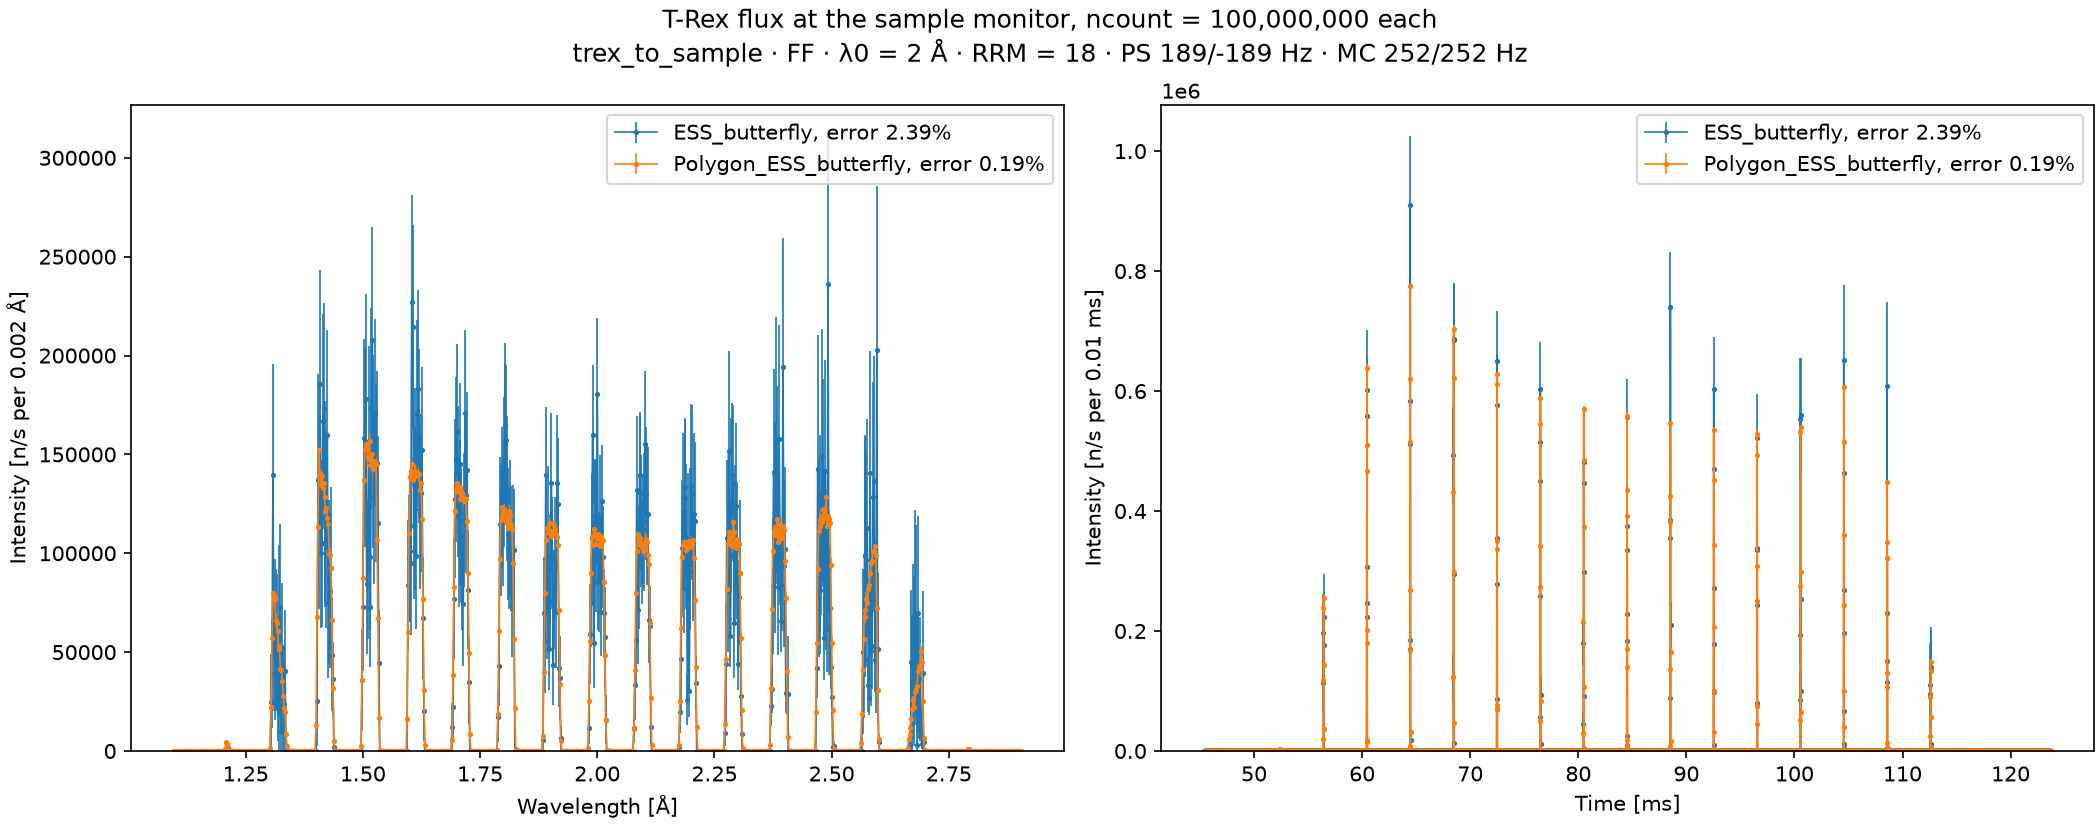
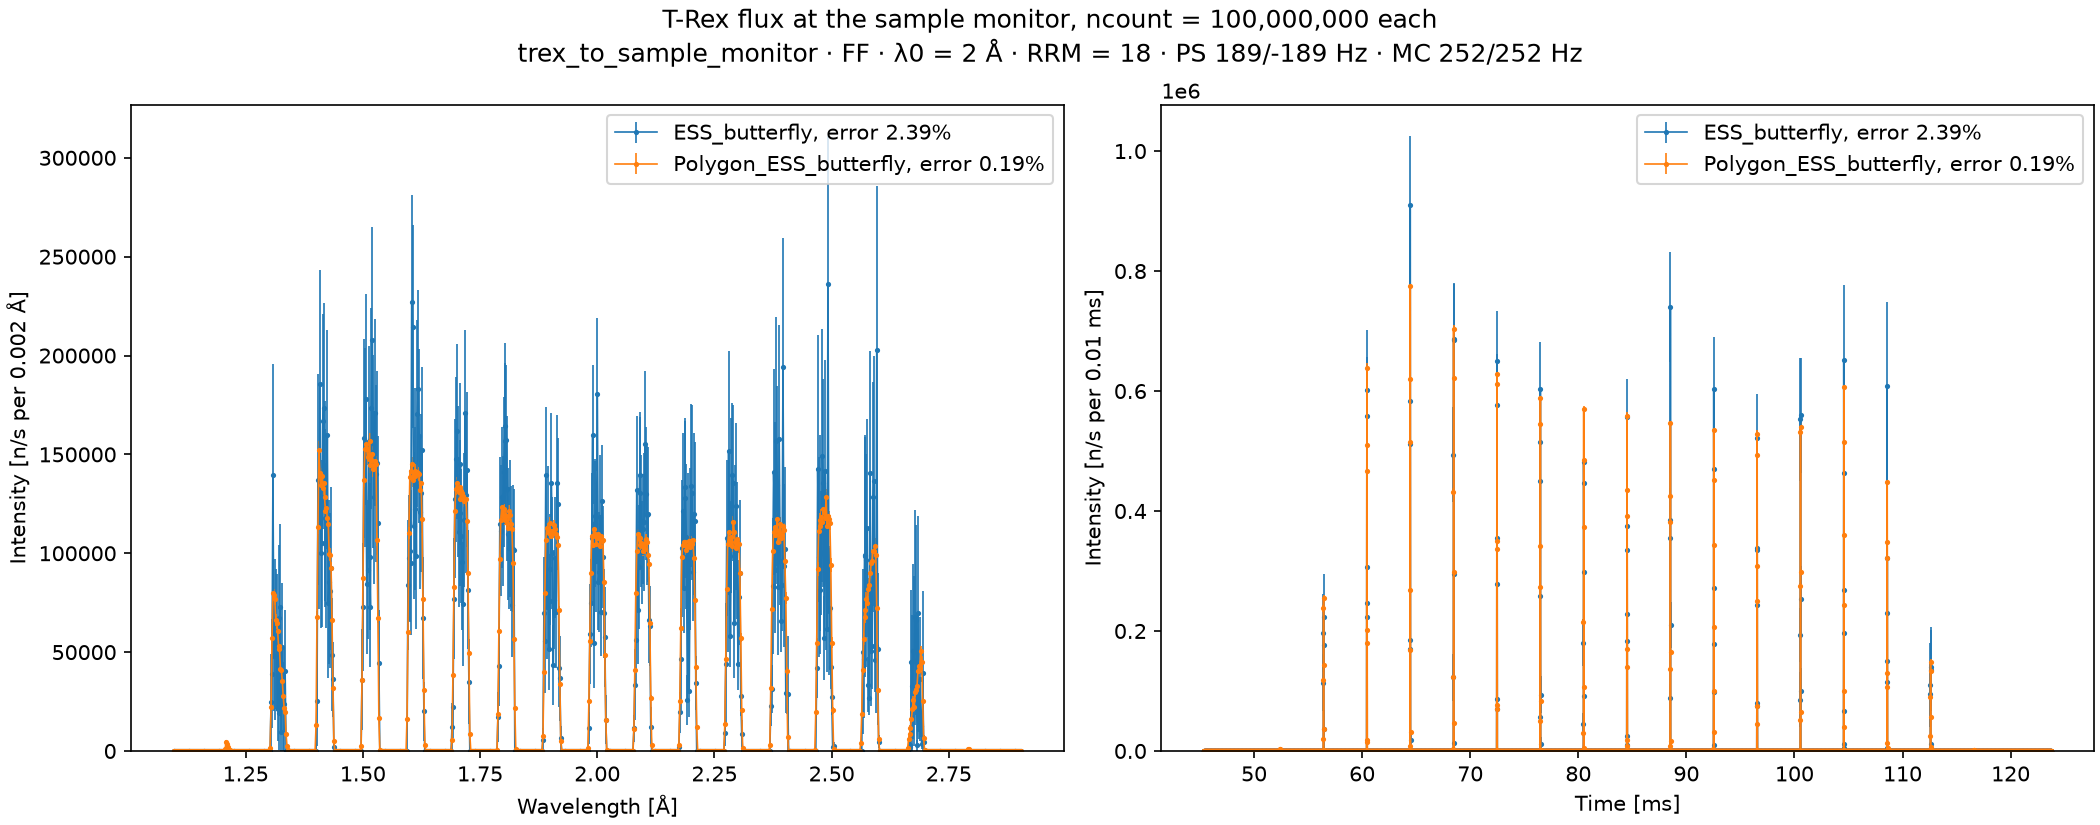
Make the figures of the docs again, and bring the pages up to date with the code
The masked source figures have the intensity label of plot_profile, and their table the times
of this run. The Source page shows trex_source_lambda0_2A.png, the name the code writes. The
numbers of the Incident energy page are those main prints, and the figure of merit of the
Masked source page is no longer that of one run. The code layout, the core concepts, the home
page and the diagnostics package name the readers of the maps, compare, drawing and cli.

Changed region(s): [[0.2476, 0.0303, 0.7429, 0.0909]]

diff --git a/src/mcdgs/diagnostics/__init__.py b/src/mcdgs/diagnostics/__init__.py
@@ -1,5 +1,7 @@
 """Setups that study one part of an instrument, such as a section of it with extra monitors.
 
-They build on the instruments and on mcstas/, and nothing else in mcdgs imports them. One
-package per instrument, as in instruments/.
+They build on the instruments, mcstas/, tof/ and reduction/, and nothing else in mcdgs imports
+them. One package per instrument, as in instruments/. The modules share :mod:`.compare`, which
+puts two time and wavelength maps of a monitor side by side and draws them, :mod:`.drawing`,
+which describes and draws any instrument, and :mod:`.cli`, their command line and files.
 """

diff --git a/docs/code-layout.md b/docs/code-layout.md
@@ -12,10 +12,10 @@ Dependencies point inwards, so an instrument never depends on how it is simulate
 | `core` | `Instrument`, the components, parameters and geometry. It imports nothing else from `mcdgs`. |
 | `instruments`, `samples` | The instruments and ready-made crystals, built on `core`. |
 | `mcstas` | An adapter that works with any instrument: builds it, runs it, reads the output. |
-| `tof` | An adapter that works with any instrument: builds its chopper cascade as a tof model, gives its disks as scippneutron disk choppers, and draws its chopper acceptance diagram. |
+| `tof` | An adapter that works with any instrument: builds its chopper cascade as a tof model, gives its disks as scippneutron disk choppers, draws its chopper acceptance and time-distance diagrams, and counts the neutrons of a run on the bins of a McStas monitor. |
 | `io` | An adapter that saves any instrument to a YAML parameters file and loads it back. It imports `instruments` only to know every instrument class a file may name. |
-| `reduction` | Data reduction with the kernels of scippneutron: the incident energy of a straight flight, the energy and momentum transfer of each neutron, the sub-pulse it belongs to, the solid angle of the pixels and bin edges. It imports nothing else from `mcdgs`. |
-| `diagnostics` | Setups that study one part of an instrument, such as T-Rex up to guide 4, and what reads their McStas and tof results. One module per setup, in a package per instrument, such as `trex.source`, built on all the other packages; nothing else imports it. |
+| `reduction` | Data reduction with the kernels of scippneutron: the incident energy of a straight flight, the patches of a time and wavelength map, the energy and momentum transfer of each neutron, the sub-pulse it belongs to, the solid angle of the pixels and bin edges. It imports nothing else from `mcdgs`. |
+| `diagnostics` | Setups that study one part of an instrument, such as T-Rex up to guide 4, and what reads their McStas and tof results. One module per setup, in a package per instrument, such as `trex.source`, built on all the other packages; nothing else imports it. The modules share `compare`, which puts two time and wavelength maps of a monitor side by side and draws them, `drawing`, which describes and draws any instrument, and `cli`, their command line and the files they write. |
 
 Each box is a package, with the main things it offers, and each dashed arrow points to a package it
 imports from:
@@ -41,11 +41,13 @@ classDiagram
         <<package>>
         build_mcstas()
         Simulation
+        read_mcstas_map()
         read_pixels()
     }
     class tof {
         <<package>>
         build_tof()
+        read_tof_map()
         acceptance_diagram()
         time_distance_diagram()
     }
@@ -61,6 +63,7 @@ classDiagram
     }
     class diagnostics {
         <<package>>
+        compare
         trex.overview to trex.elastic_scan
     }
     instruments ..> core

diff --git a/docs/instruments/trex/incident-energy.md b/docs/instruments/trex/incident-energy.md
@@ -51,7 +51,7 @@ blue, the beamstop monitor in orange, McStas as solid lines and tof as dashed on
 sub-pulse reaches the beamstop monitor 1.1 to 2.2 ms after the pre-sample monitor, the slower
 ones later.
 
-In McStas, the beamstop monitor counts 2.277e7 n/s, 11 % less than the 2.546e7 n/s at the
+In McStas, the beamstop monitor counts 1.948e7 n/s, 23 % less than the 2.546e7 n/s at the
 pre-sample monitor: the beam spreads over the 3.3 m, and part of it misses the 0.1 m monitor.
 tof has no divergence and counts all of it. This loss hardly changes Ei: with the plain source, a
 1 m × 1 m beamstop monitor, which catches the whole beam, moved Ei by at most 0.3 %, within the
@@ -161,15 +161,15 @@ values, in McStas:
 
 | Sub-pulse | At the pre-sample monitor | Between the monitors | λi | Ei between the monitors | Ei, pre-sample monitor alone | Ei from the mean λ |
 | --------- | ------------------------- | -------------------- | -- | ----------------------- | ---------------------------- | ------------------ |
-| 0 | 56.327 ms | 1.0983 ms | 1.317 Å | 47.158 meV (−0.16 %) | 46.824 meV (−0.87 %) | 47.234 meV |
-| 7 | 84.358 ms | 1.6678 ms | 2.000 Å | 20.452 meV (−0.11 %) | 20.451 meV (−0.11 %) | 20.474 meV |
-| 14 | 112.390 ms | 2.2373 ms | 2.683 Å | 11.365 meV (−0.10 %) | 11.404 meV (+0.24 %) | 11.377 meV |
+| 0 | 56.327 ms | 1.0983 ms | 1.317 Å | 47.159 meV (−0.16 %) | 46.824 meV (−0.87 %) | 47.234 meV |
+| 7 | 84.358 ms | 1.6677 ms | 2.000 Å | 20.454 meV (−0.10 %) | 20.451 meV (−0.11 %) | 20.474 meV |
+| 14 | 112.390 ms | 2.2375 ms | 2.683 Å | 11.363 meV (−0.12 %) | 11.404 meV (+0.24 %) | 11.377 meV |
 
 Over all sub-pulses, the difference from the reference is:
 
 | Method | McStas | tof |
 | ------ | ------ | --- |
-| Between the monitors | −0.16 to +0.10 % | −0.07 to +0.08 % |
+| Between the monitors | −0.16 to +0.11 % | −0.07 to +0.08 % |
 | Pre-sample monitor alone | −0.87 to +0.24 % | −0.41 to +0.15 % |
 
 Between the monitors, both models agree with the reference to about 0.1 %, and with each other:
@@ -192,7 +192,7 @@ source:
 
 | Flight | L | t, for sub-pulse 7 | δEi / Ei for δt = 10 µs |
 | ------ | - | ------------------ | ----------------------- |
-| Between the monitors | 3.299 m | 1.667 ms | 1.2 % |
+| Between the monitors | 3.299 m | 1.668 ms | 1.2 % |
 | From the source to the pre-sample monitor | 163.499 m | 82.66 ms | 0.02 % |
 
 A sub-pulse is only about 0.02 to 0.03 ms wide, one or two bins of 0.05 ms. Its mean time is a

diff --git a/docs/index.md b/docs/index.md
@@ -30,7 +30,7 @@ print(trex)  # every parameter and component, with its position in the lab frame
 | [Simulation with McStas](how-to/run-a-simulation.md) | Single runs, parameter scans and split runs at the sample position. |
 | [Simulation with tof](how-to/simulate-the-choppers-with-tof.md) | The source, the choppers and every monitor, with the choppers timed as in McStas. |
 | [Chopper acceptance](instruments/trex/choppers.md#acceptance-diagram) | The acceptance diagram of the choppers, exact and without neutrons, with scippneutron. |
-| Reading the output | Monitors and detector pixels from McStas NeXus files; the neutrons at each tof detector. |
+| Reading the output | Monitors and detector pixels from McStas NeXus files; the neutrons at each tof detector; the time and wavelength map of a monitor from both, on the same bins, to compare them. |
 | [Parameters files](reference/io.md) | Save an instrument to a YAML file and load it back. A file need only hold what differs from the instrument the code makes. |
 | [Reduction](reference/reduction.md) | The incident energy of each sub-pulse from two monitors, and the energy and momentum transfer of each neutron, per incident neutron and per steradian: the [elastic plane](instruments/trex/elastic-plane.md) of a crystal. S(Q,E) is not written yet. |
 
@@ -43,7 +43,8 @@ print(trex)  # every parameter and component, with its position in the lab frame
   [source](instruments/trex/source.md), the [extraction guides](instruments/trex/extraction.md),
   the [bender](instruments/trex/bender-scan.md), the
   [beam monitor](instruments/trex/beam-monitor.md), the [choppers](instruments/trex/choppers.md),
-  the [neutrons on the sample](instruments/trex/neutrons-on-sample.md), the
+  the [time-distance diagram](instruments/trex/time-distance.md), the
+  [neutrons on the sample](instruments/trex/neutrons-on-sample.md), the
   [masked source](instruments/trex/masked-source.md), the
   [incident energy](instruments/trex/incident-energy.md), and the
   [elastic plane](instruments/trex/elastic-plane.md) and

diff --git a/docs/instruments/trex/masked-source.md b/docs/instruments/trex/masked-source.md
@@ -14,7 +14,7 @@ Both give the same intensity, but the masked source's error is ten times smaller
 `Polygon_ESS_butterfly` is a McStas component that builds on `ESS_butterfly`. It is the same
 moderator, with the same parameters, plus a description of the chopper train.
 
-A neutron leaves the moderator at a time t with a speed v. It reaches a disk L metres away at
+A neutron leaves the moderator at a time t with a speed v. It reaches a disk L meters away at
 t + L/v, and passes if the disk is open then. Before the run, the component computes, for every
 disk, which (1/v, t) pairs pass it, and keeps the region all the disks pass: a union of convex
 polygons. Nothing is binned, so the region is exact.
@@ -84,8 +84,8 @@ monitor has finer bins than that of T-Rex, to show the shape of each sub-pulse:
 - **A twelfth of the error.** From the same 1e8 rays, the plain source has an error of 2.4 % and
   the masked source 0.19 %. The plain source would need about 1.6e10 rays to do as well.
 - **No dearer per ray.** Both runs take about as long, 12 to 15 s here, which varies from run to
-  run. The figure of merit, one over the relative error squared times the time, is 137 times
-  higher with the masked source in this run.
+  run. The figure of merit, one over the relative error squared times the time, is about 135
+  times higher with the masked source; with the time, it varies a little from run to run.
 
 ## The figures
 

diff --git a/docs/concepts.md b/docs/concepts.md
@@ -69,7 +69,8 @@ same object can go to both.
    run.
 3. Each run writes a folder in `mcdgs_workspace/runs/` with a McStas NeXus file, `mccode.h5`.
 4. [`read_pixels`](reference/mcstas.md) or `h5py` reads that file. See
-   [Read the output](how-to/read-the-output.md).
+   [Read the output](how-to/read-the-output.md). [`read_mcstas_map`](reference/mcstas.md) reads
+   the time and wavelength map of a monitor, in n/s per bin, from the data McStasScript loads.
 
 ### With tof
 
@@ -79,5 +80,8 @@ same object can go to both.
 2. `model.run()` follows the neutrons in memory and writes no files.
 3. `result["sample_monitor"]` holds the neutrons at the monitor at the sample position, with their
    wavelength and time of arrival. See [Simulate the choppers with tof](how-to/simulate-the-choppers-with-tof.md).
+   [`read_tof_map`](reference/tof.md) counts them on the bins of a McStas monitor, so that
+   [`mcdgs.diagnostics.compare`](reference/diagnostics.md) can put both maps side by side, as on
+   [Source](instruments/trex/source.md).
 
 [Code layout](code-layout.md) shows where each of these parts lives in the code.

diff --git a/docs/instruments/trex/source.md b/docs/instruments/trex/source.md
@@ -181,7 +181,7 @@ the functions of [`mcdgs.diagnostics.compare`](../../reference/diagnostics.md#mc
   `mcdgs_workspace/results/trex_source/`, or to the folder given with `--out`.
 
 Run as a module, it makes three figures: `trex_source_1e6.png`, this one,
-`trex_source_1e5.png` and `trex_source_lambda0_2.png`, below. The figure has two rows:
+`trex_source_1e5.png` and `trex_source_lambda0_2A.png`, below. The figure has two rows:
 
 - **Top:** the time and wavelength map of McStas and of tof, side by side on one color scale, in
   n/s per 0.05 ms and 0.05 Å.
@@ -253,7 +253,7 @@ sample within one period of the source, a band of 1.81 Å around `lambda0`. At i
 `lambda0` = 2 Å, that is 1.095 to 2.905 Å. The same run with that band, 1e6 neutrons in both
 models and seed 1:
 
-![McStas and tof at the entrance of guide 1, with the band of lambda0 = 2 Å](figures/source/trex_source_lambda0_2.png)
+![McStas and tof at the entrance of guide 1, with the band of lambda0 = 2 Å](figures/source/trex_source_lambda0_2A.png)
 
 | | Widest band | Band of `lambda0` = 2 Å |
 | --- | --- | --- |
